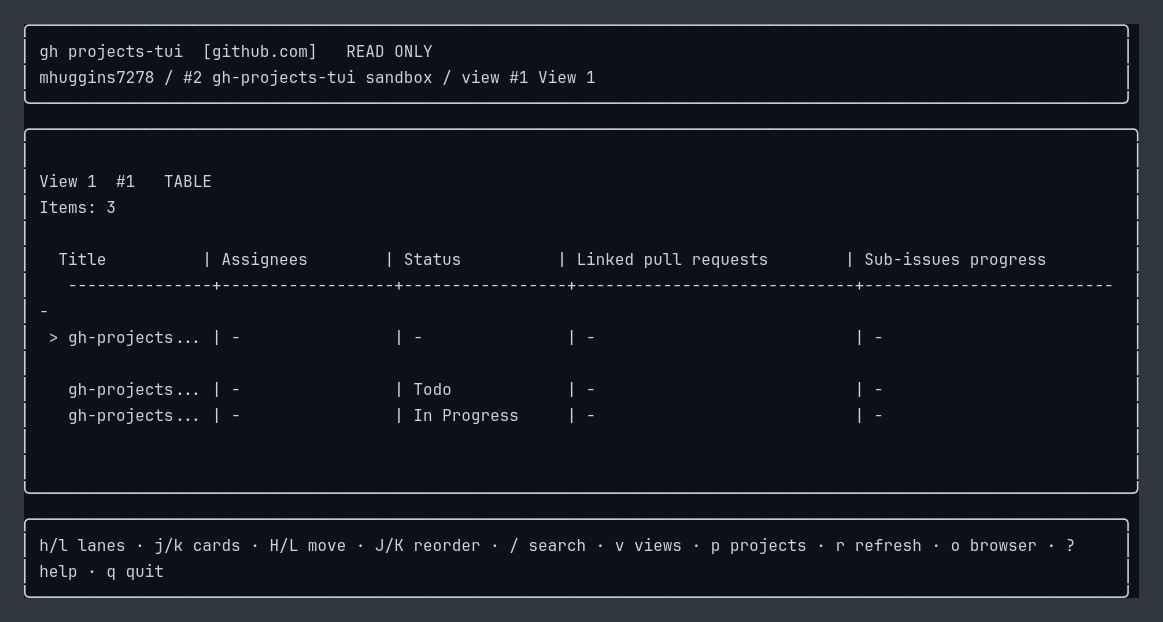
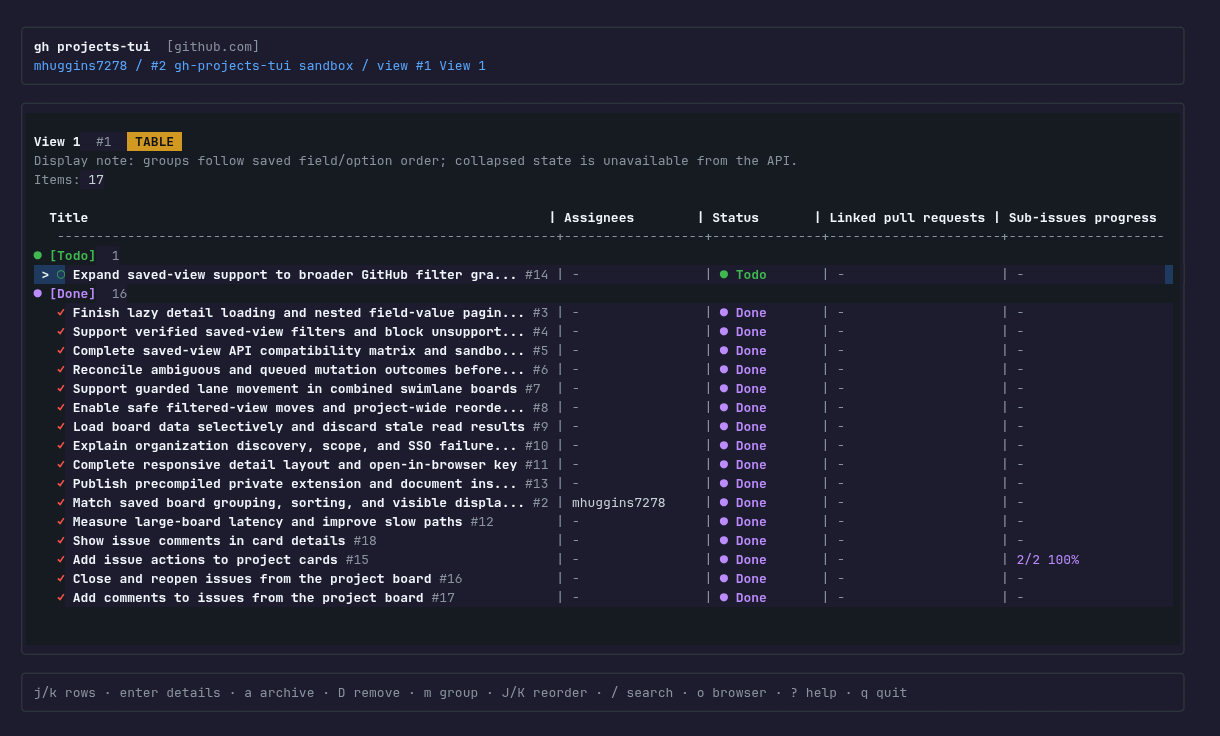
Refresh README screenshots from live project views

diff --git a/README.md b/README.md
@@ -8,13 +8,21 @@ evolving.
 
 ## Screenshots
 
-These captures show the current pre-alpha interface running locally against a
-disposable GitHub Projects sandbox. They are illustrative, not a published
-binary or a promise of visual/API parity with GitHub's web UI.
+Captured from the running TUI against a disposable GitHub Projects sandbox.
+The board and table show the same saved project with live issues and fields;
+the detail panel loads an issue on demand.
+
+### Board: saved Status lanes and issue cards
 
 ![Board view](docs/screenshots/board.png)
 
+### Table: grouped rows, saved columns, and sub-issue progress
+
 ![Table view](docs/screenshots/table.png)
+
+### Issue details: project fields and Markdown body
+
+![Issue detail overlay on a board](docs/screenshots/detail.png)
 
 ## Install the GitHub CLI extension
 
